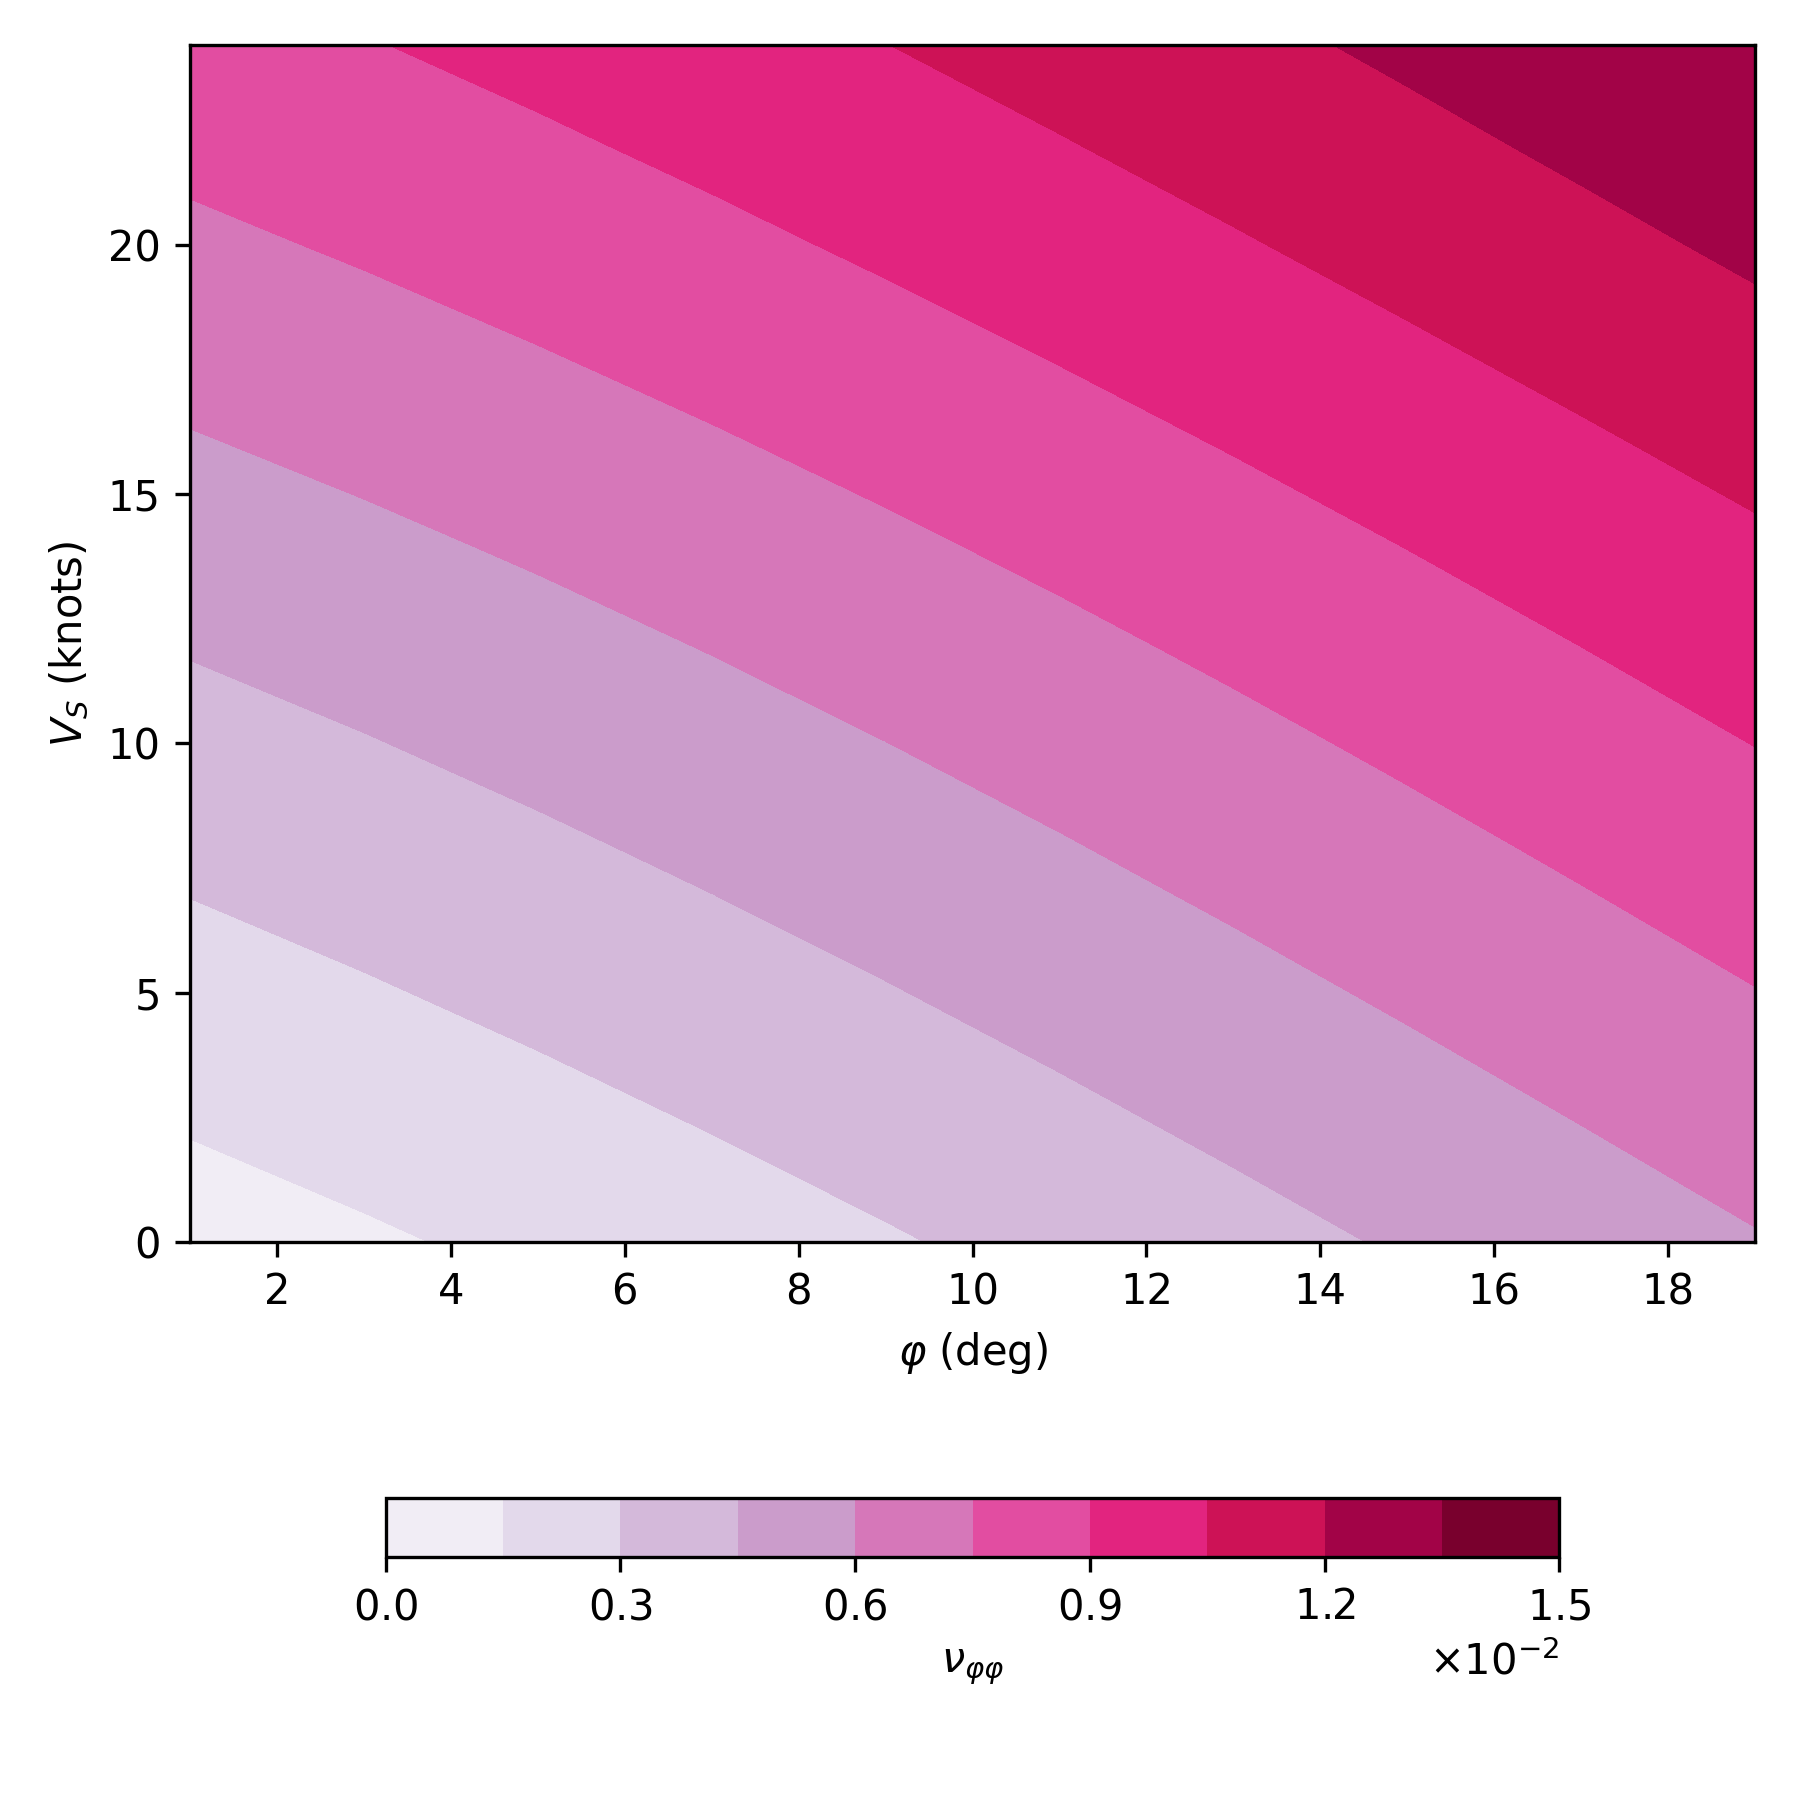
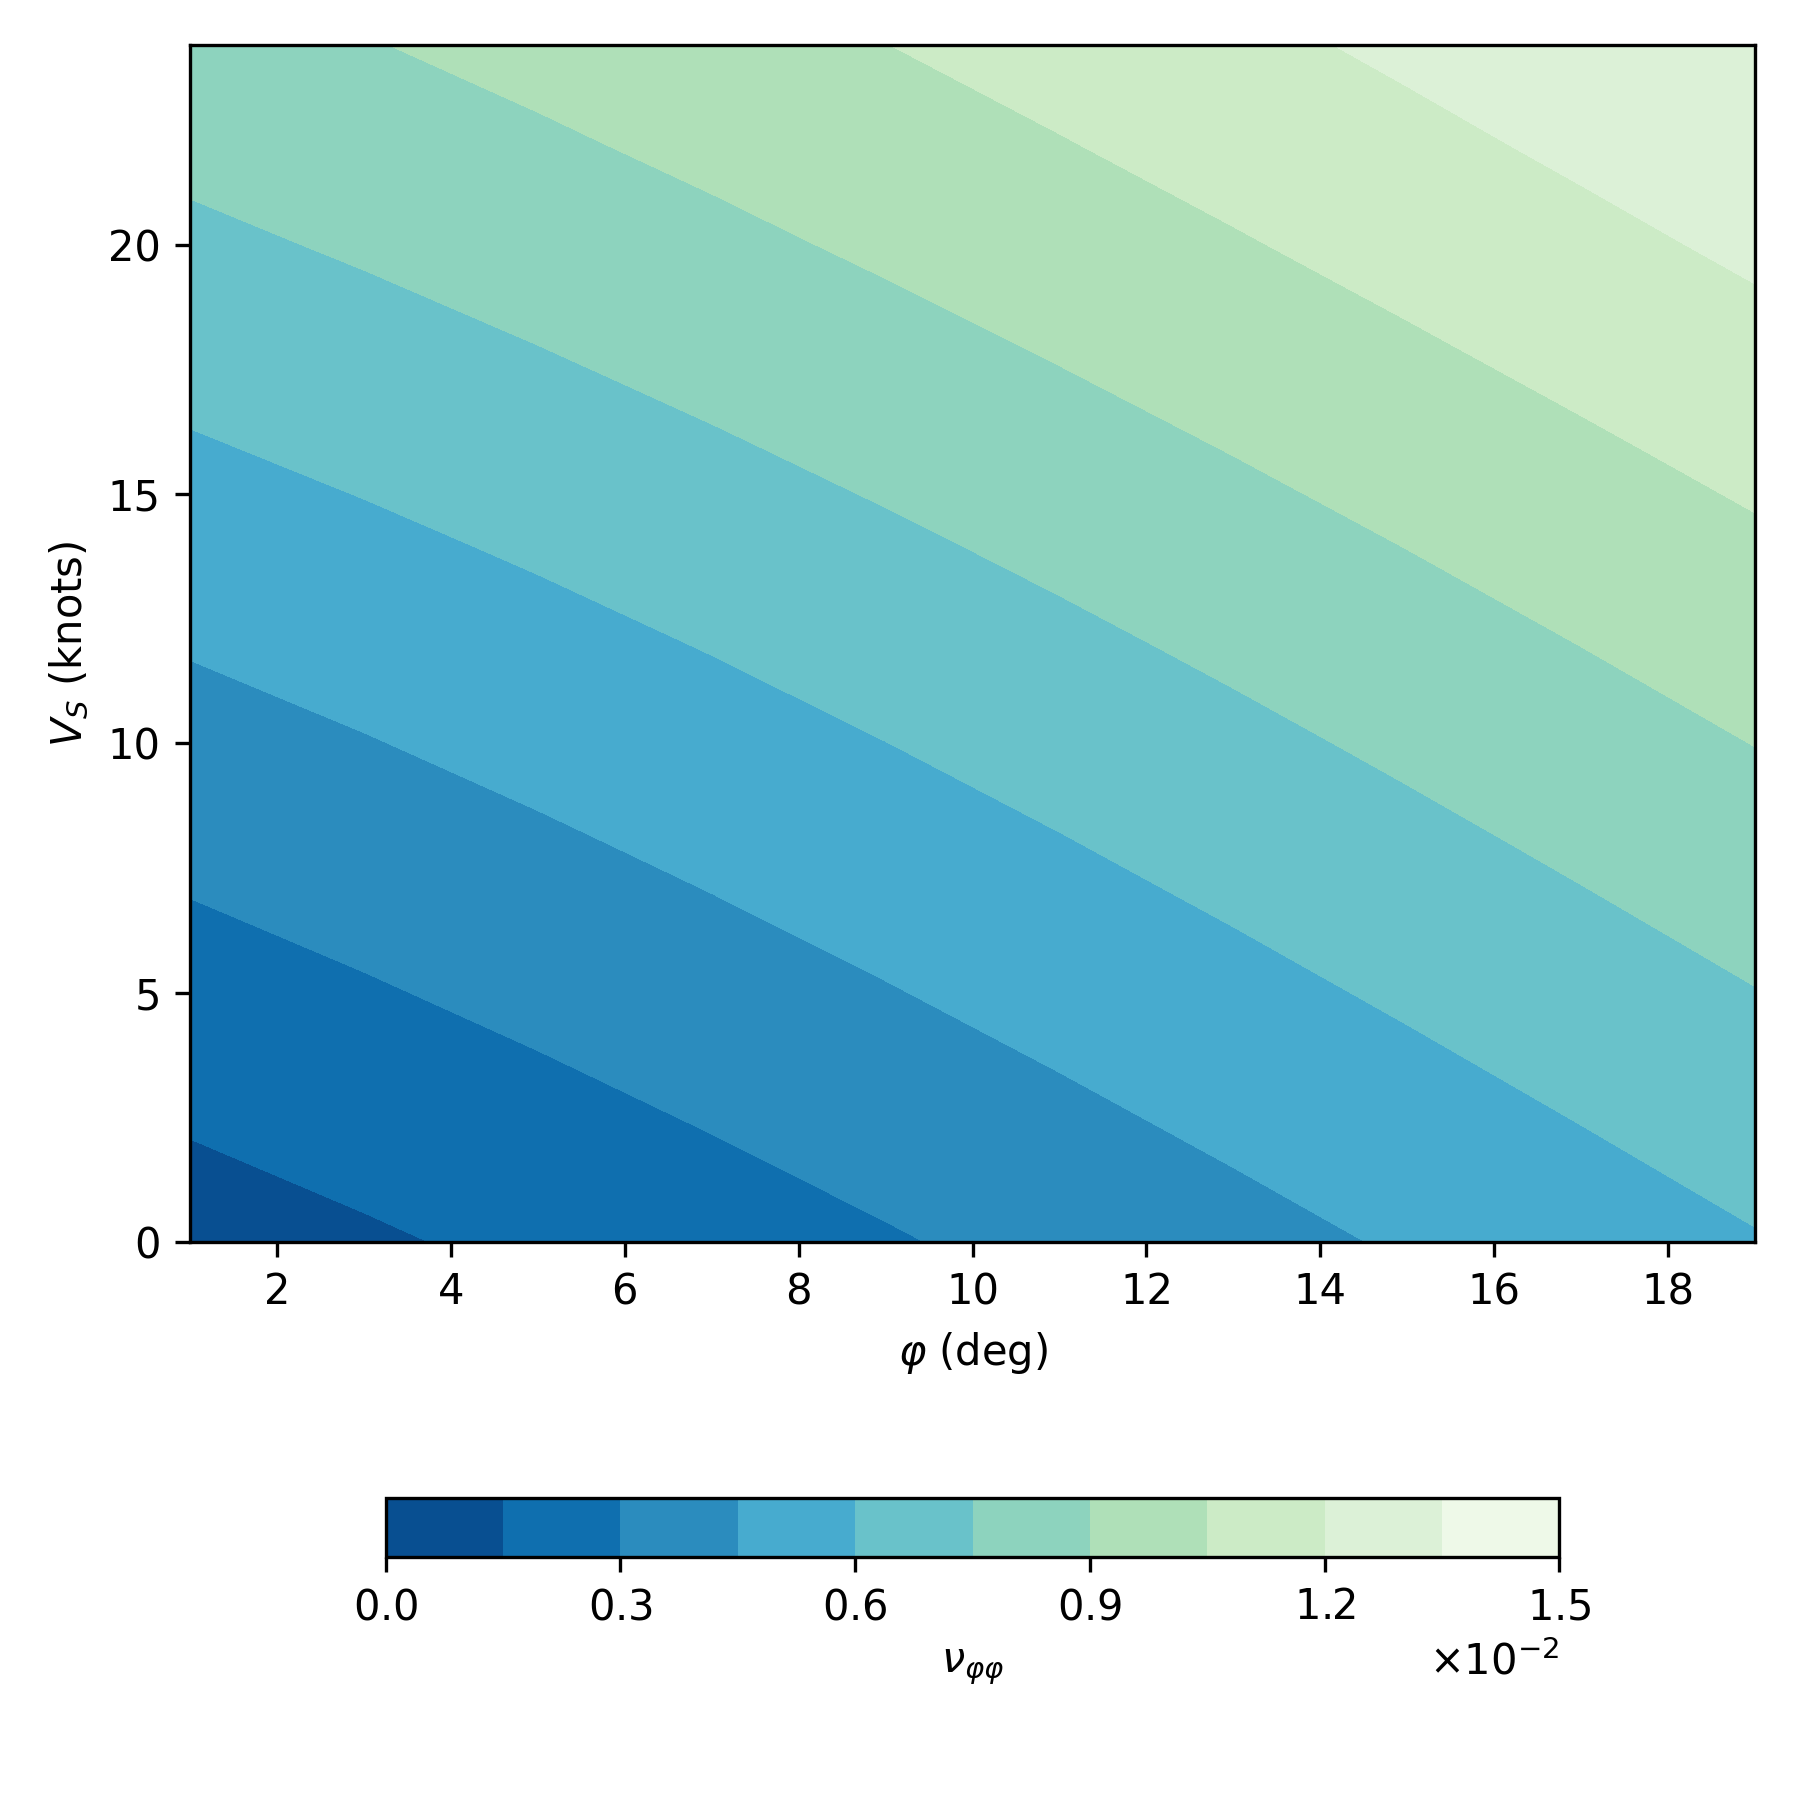
small improvements

diff --git a/roll_damp.py b/roll_damp.py
@@ -20,11 +20,18 @@ import matplotlib.pyplot as plt
 
 iDir = 'input/'
 oDir = 'output/'
+cMap = 'GnBu_r'
 
-cMap = 'PuRd'
-rho,G = 1025.9,9.80665
 
 fnam = 'ship'
+
+##### Define Computations Domain
+VS = np.arange(0,25,2)  #### Vector of speeds, knots
+phi = np.arange(1,20,2) #### Vector of roll angles, degrees
+
+##### Default Enviromental Conditions
+rho,G = 1025.9,9.80665
+
 df = pd.read_csv(iDir + fnam+'.csv',index_col=0)
 
 df = df.fillna(0)
@@ -32,9 +39,6 @@ print(df)
 
 lpp,brth,t,cb,cm,KG,tw,lbk,bbk = df['Value'].values
 
-##### Define Conditions
-VS = np.arange(0,25,2)  #### Vector of speeds
-phi = np.arange(1,20,2) #### Vector of roll angles
 
 ogd = 1-KG/t
 b44,b44d = [],[]
